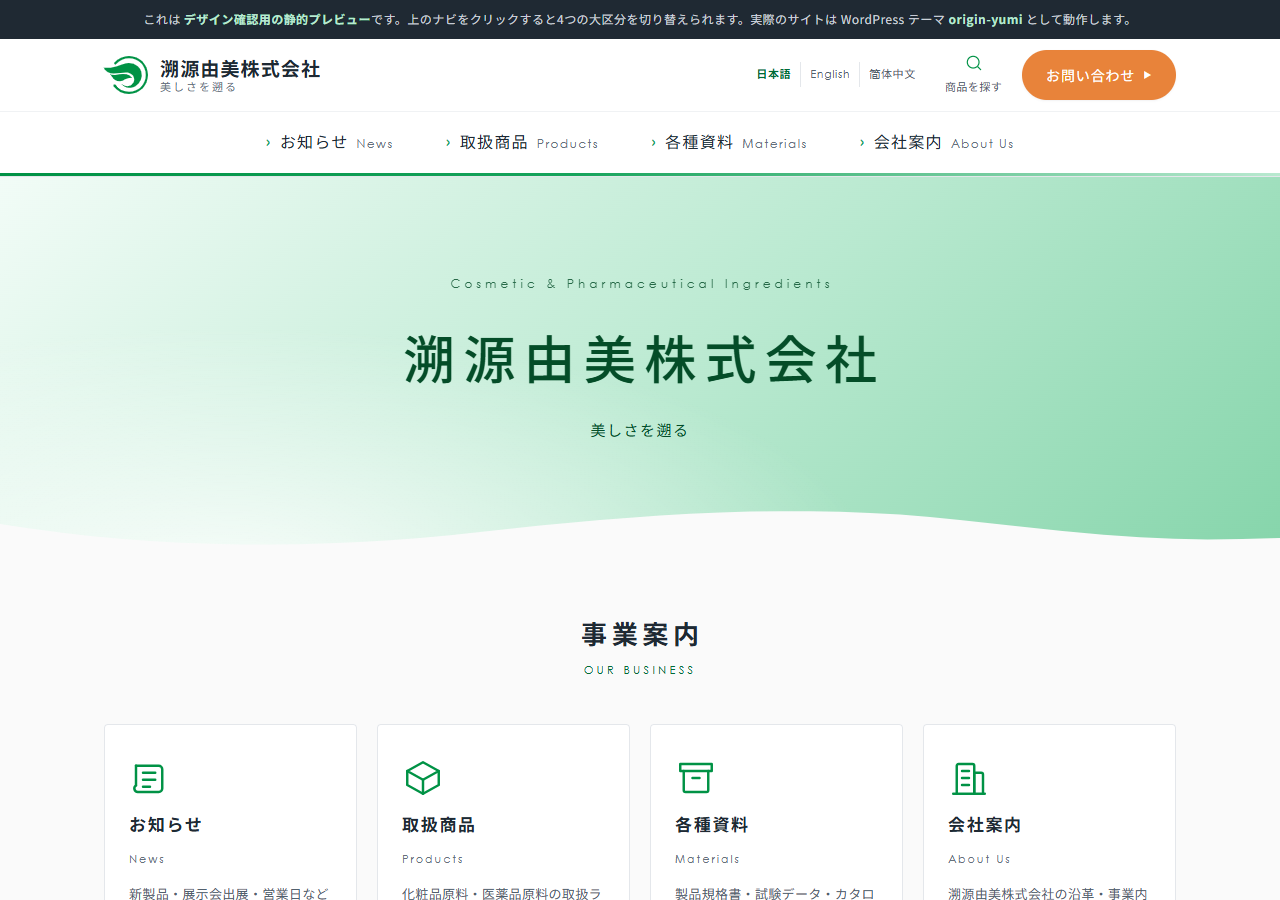
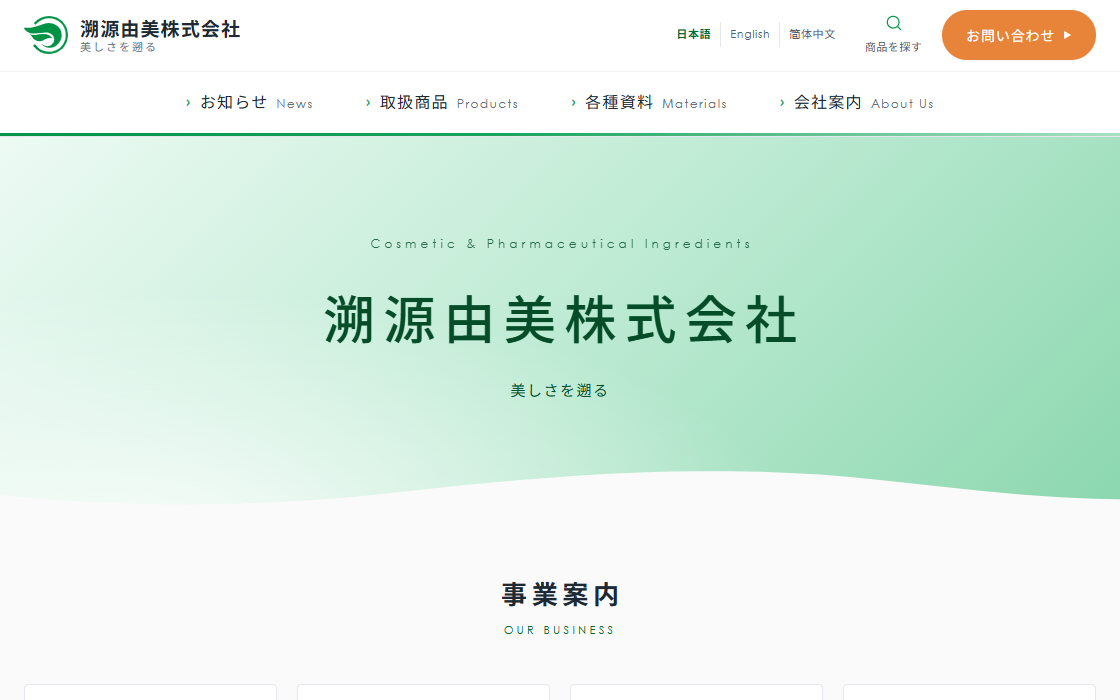
Fix audit findings and replace giant footer name with a one-line footer

diff --git a/index.html b/index.html
@@ -65,6 +65,7 @@
   .readout { min-height:1.6em; color:var(--muted); font-size:var(--step-small); margin-bottom:48px; }
   .group { margin-top:56px; }
   .group-name { font-size:var(--step-lead); font-weight:600; margin-bottom:8px; }
+  .group-name span { display:block; font-size:var(--step-small); font-weight:400; color:var(--muted); font-variant-numeric:tabular-nums; }
   .job { padding:18px 0; transition:opacity .3s; }
   .job-head { display:flex; justify-content:space-between; align-items:baseline; gap:24px; }
   .job h3 { font-family:var(--text); font-weight:600; font-size:var(--step-body); letter-spacing:0; line-height:1.4; }
@@ -117,11 +118,8 @@
 
   /* footer */
   footer { margin:var(--m) var(--m) 0; background:var(--surface); }
-  .ft { display:flex; flex-direction:column; justify-content:space-between; gap:clamp(96px, 16vw, 240px); padding:32px var(--pad) 40px; }
-  .ft-top { display:flex; justify-content:space-between; gap:24px; flex-wrap:wrap; }
-  .ft-top a { margin-right:20px; }
-  .big { font-family:var(--display); font-weight:900; font-size:clamp(5rem, 18vw, 18rem); line-height:1; letter-spacing:-0.03em; margin:0 0 24px; }
-  .credit { font-size:var(--step-small); max-width:60ch; }
+  .ft { display:flex; justify-content:space-between; align-items:baseline; gap:16px; flex-wrap:wrap; padding:28px var(--pad); font-size:var(--step-small); color:var(--muted); }
+  .ft a { color:var(--muted); }
 
   /* entrances */
   .js .rv { opacity:0; translate:0 24px; transition:opacity .7s var(--ease), translate .7s var(--ease); transition-delay:calc(var(--i, 0) * 80ms); }
@@ -194,7 +192,7 @@
       <p class="readout" aria-live="polite"></p>
 
       <div class="group">
-        <p class="group-name">MCT Japan｜2026.05 – 現在</p>
+        <p class="group-name">MCT Japan<span>2026.05 – 現在</span></p>
         <article class="job rv" data-tech="mcp azure typescript">
           <div class="job-head"><h3>AI 業務助理（企業示範）</h3><span class="when">2026.10 – 現在</span></div>
           <p>為多家日本製造業、汽車業客戶製作的 AI 業務助理示範，涵蓋接單、規格書管理等流程。</p>
@@ -216,7 +214,7 @@
       </div>
 
       <div class="group">
-        <p class="group-name">スリーティソフト｜2022.12 – 2026.04</p>
+        <p class="group-name">スリーティソフト<span>2022.12 – 2026.04</span></p>
         <article class="job rv" data-tech="java spring react oracle linux">
           <div class="job-head"><h3>船舶管理系統重建</h3><span class="when">2025.09 – 2026.04</span></div>
           <p>將既有的 C# 系統以 Java・React 重新開發。團隊 15 人，負責工程：詳細設計～整合測試。</p>
@@ -244,7 +242,7 @@
       </div>
 
       <div class="group">
-        <p class="group-name">玉山銀行 資訊處｜2021.01 – 2021.06</p>
+        <p class="group-name">玉山銀行 資訊處<span>2021.01 – 2021.06</span></p>
         <article class="job rv" data-tech="java oracle">
           <div class="job-head"><h3>軟體工程師，海外資訊部</h3><span class="when">2021.01 – 2021.06</span></div>
           <p>負責海外分行的業務需求。新人訓練後主要負責香港分行開戶系統上線，以及開戶、存款、匯款功能的維護與追加開發。團隊 30 人，負責工程：詳細設計～單元測試。</p>
@@ -268,7 +266,7 @@
   </section>
 
   <section id="work" aria-labelledby="work-h">
-    <h2 id="work-h" class="rv">下班後做的東西</h2>
+    <h2 id="work-h" class="rv">個人與共同開發專案</h2>
     <ul class="names">
       <li class="on rv"><button type="button"><span class="nm">HAVALON</span><span class="meta">共同開發・2026</span></button>
         <img src="img/havalon.png" alt="HAVALON 的首頁畫面：貓咪騎士圍著王座的插圖與建立房間的表單" width="860" height="1800" loading="lazy">
@@ -338,14 +336,8 @@
 
 <footer>
   <div class="ft">
-    <div class="ft-top">
-      <nav aria-label="頁尾導覽"><a href="#career">經歷</a><a href="#work">專案</a><a href="#contact">聯絡</a></nav>
-      <a href="mailto:agenga.chaos@gmail.com">agenga.chaos@gmail.com</a>
-    </div>
-    <div>
-      <p class="big">陳鉅仁</p>
-      <p class="credit">最後更新：2026 年 11 月。</p>
-    </div>
+    <p>© 2026 陳鉅仁・最後更新 2026 年 11 月</p>
+    <a href="#">回到頂端</a>
   </div>
 </footer>
 
